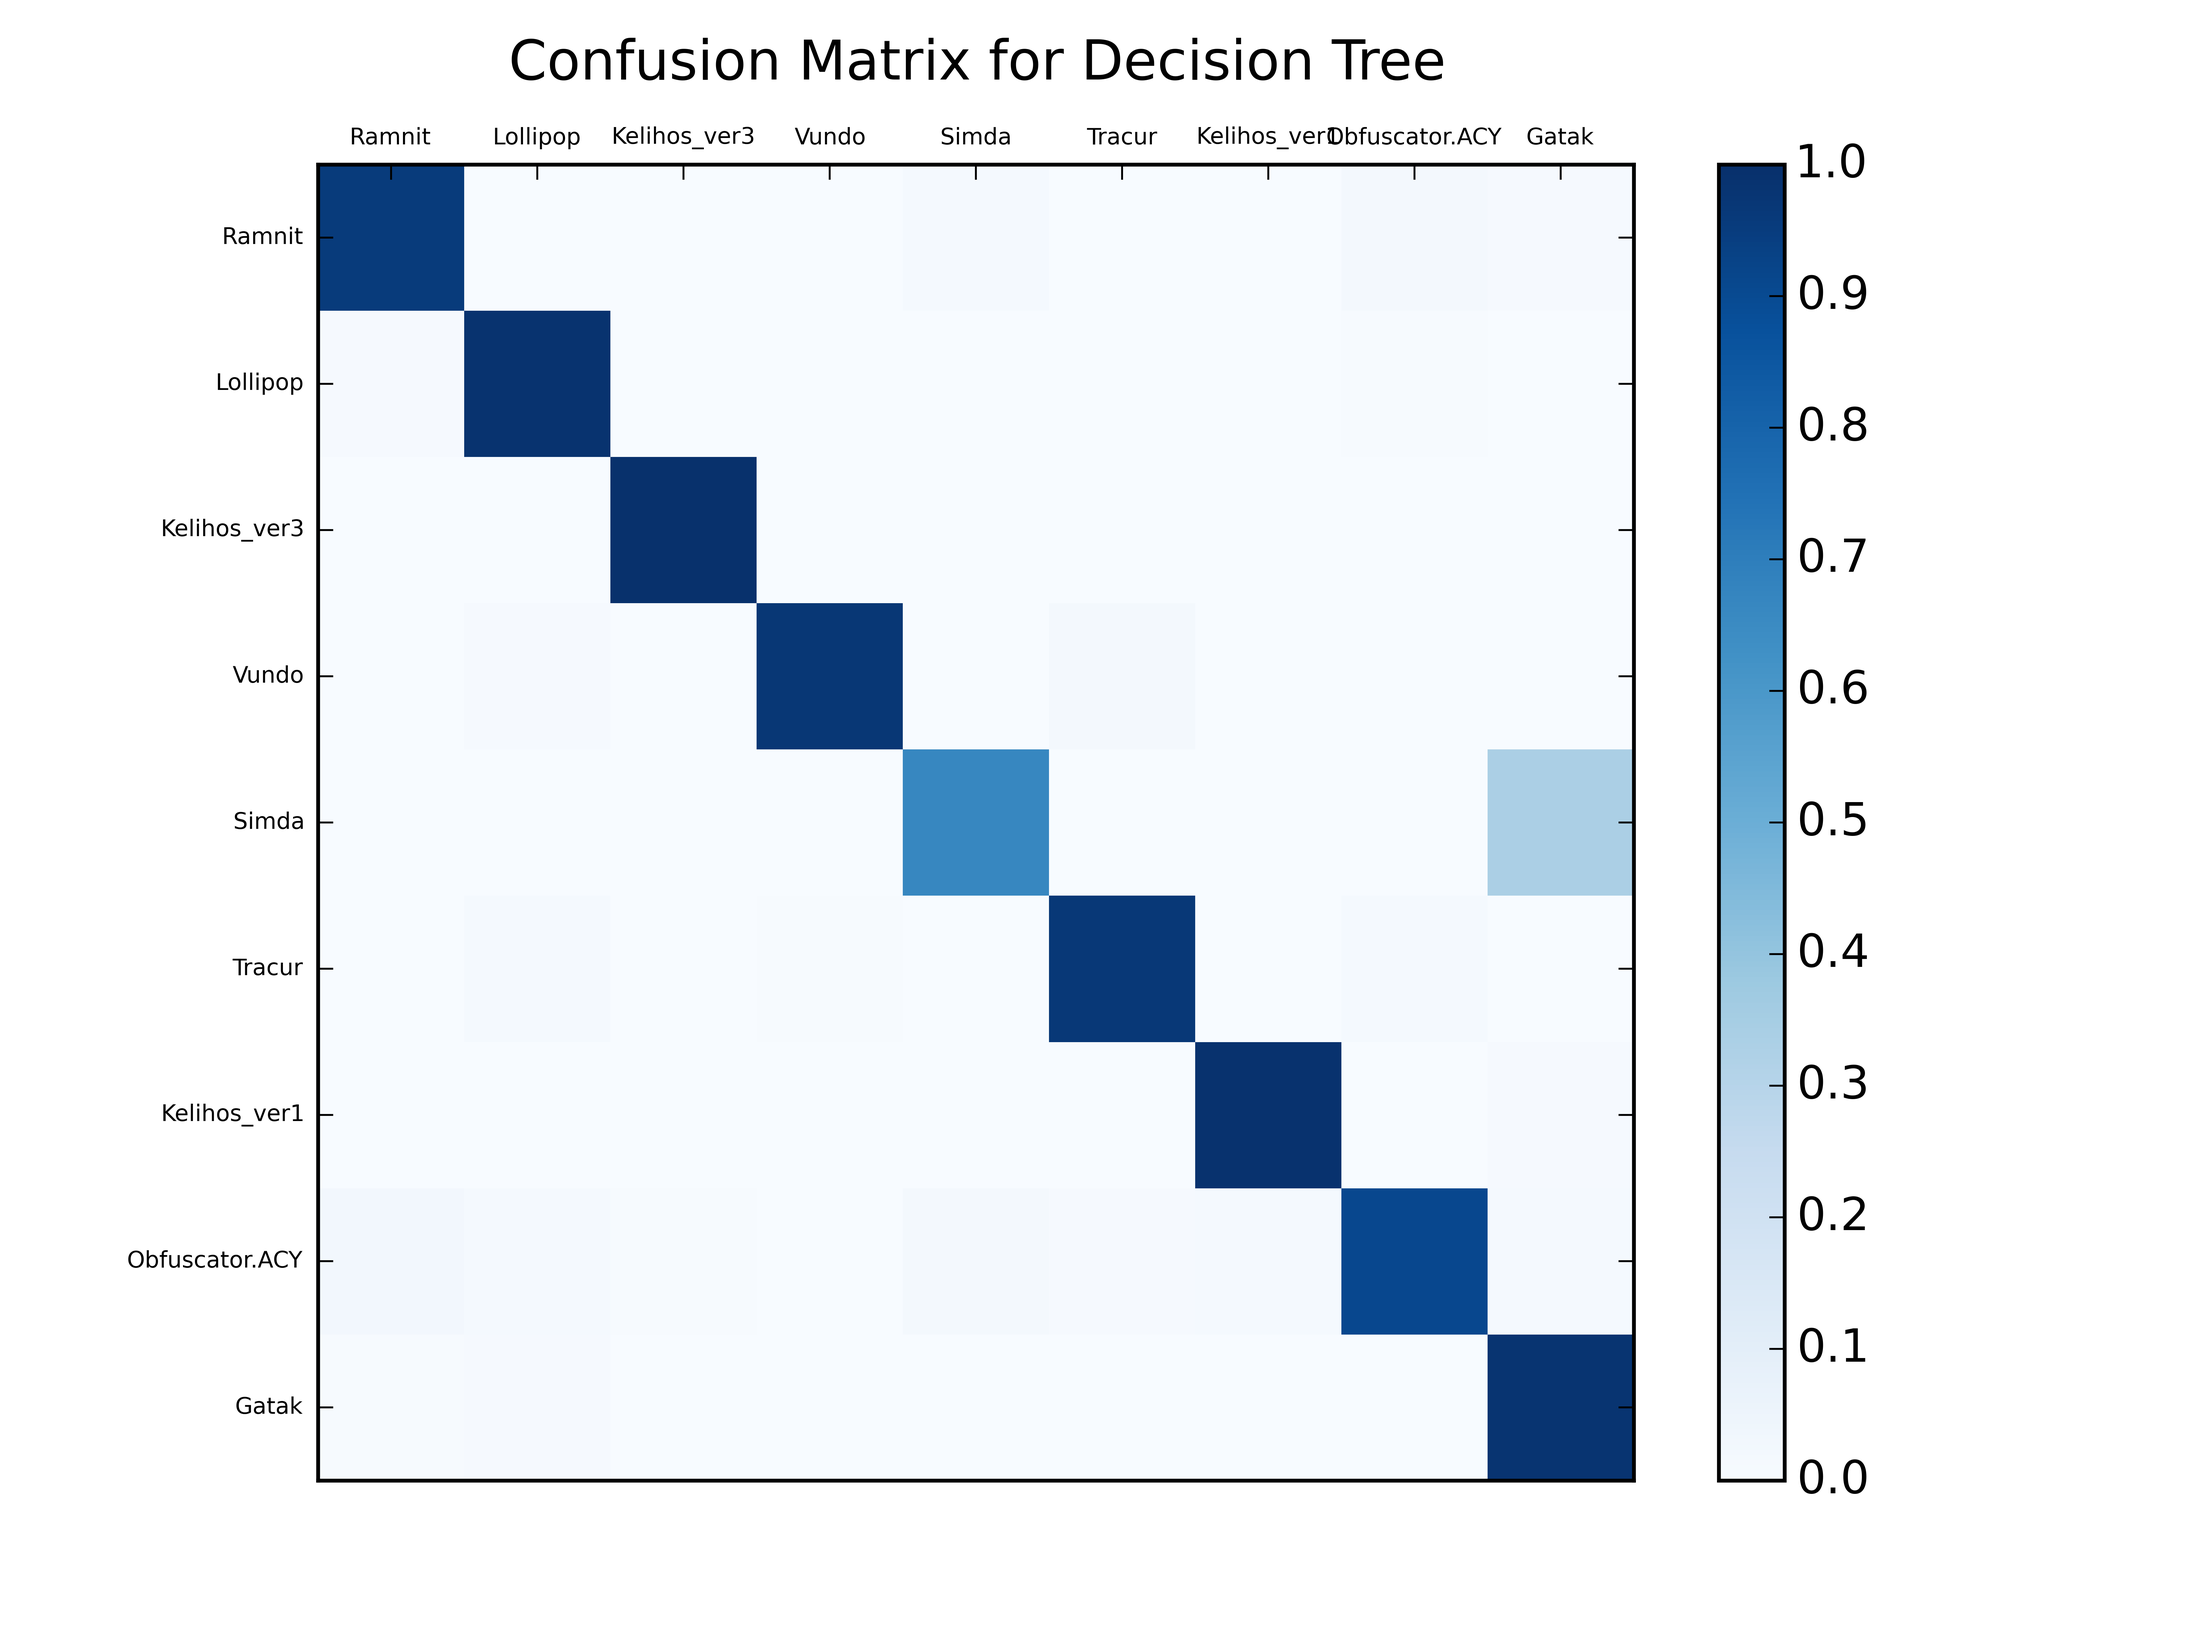
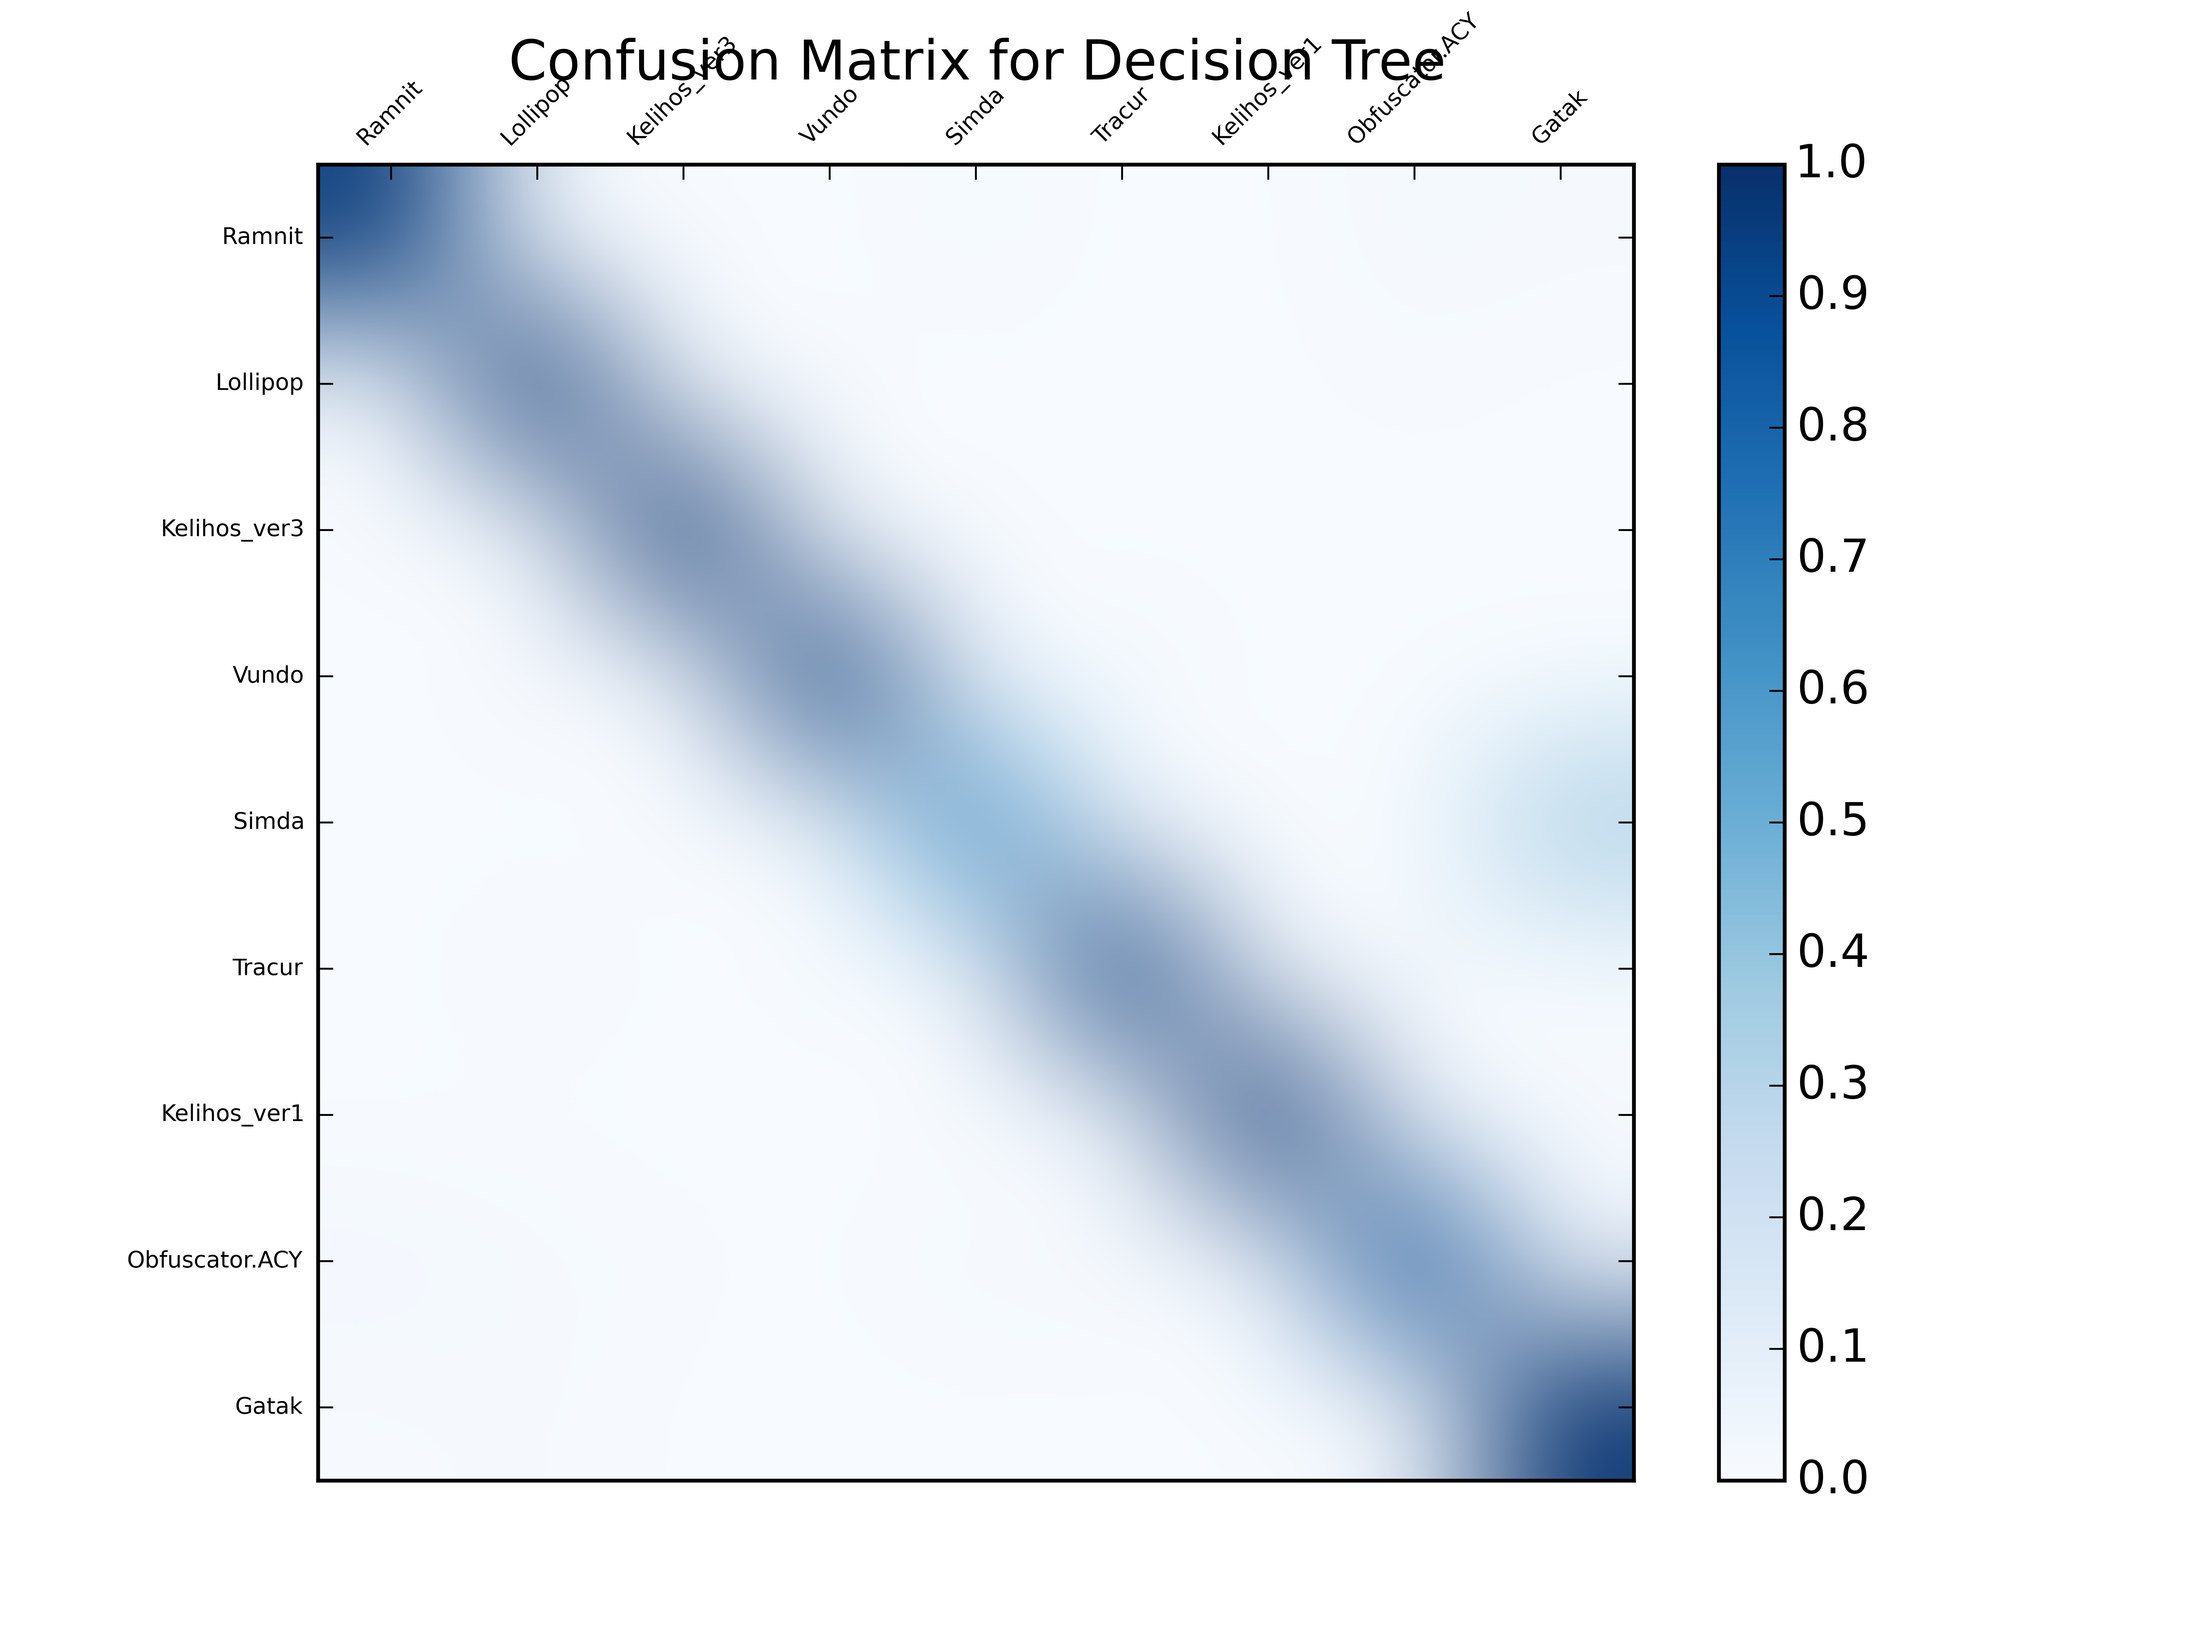
more fine tuning

diff --git a/tmp/validate.py b/tmp/validate.py
@@ -47,10 +47,10 @@ print (confusion_normalized)
 
 #pylab.clf()
 
-pylab.matshow(confusion_normalized, fignum=False, cmap='Blues', vmin=0, vmax=1.0)
+pylab.matshow(confusion_normalized, fignum=False, cmap='Blues', vmin=0.0, vmax=1.0, interpolation='bicubic')
 ax = pylab.axes()
 ax.set_xticks(range(len(families)))
-ax.set_xticklabels(families,  fontsize=6)
+ax.set_xticklabels(families,  fontsize=6, rotation=45)
 ax.xaxis.set_label_position('top') 
 ax.xaxis.set_ticks_position("top")
 ax.set_yticks(range(len(families)))
